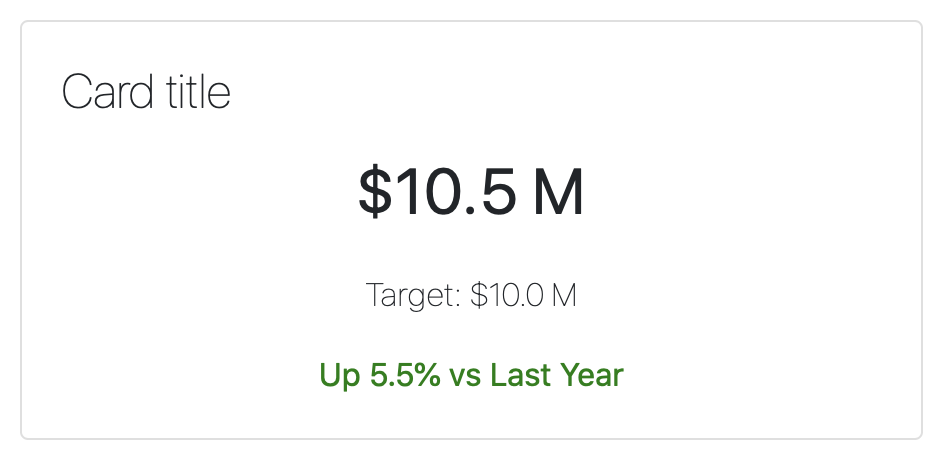
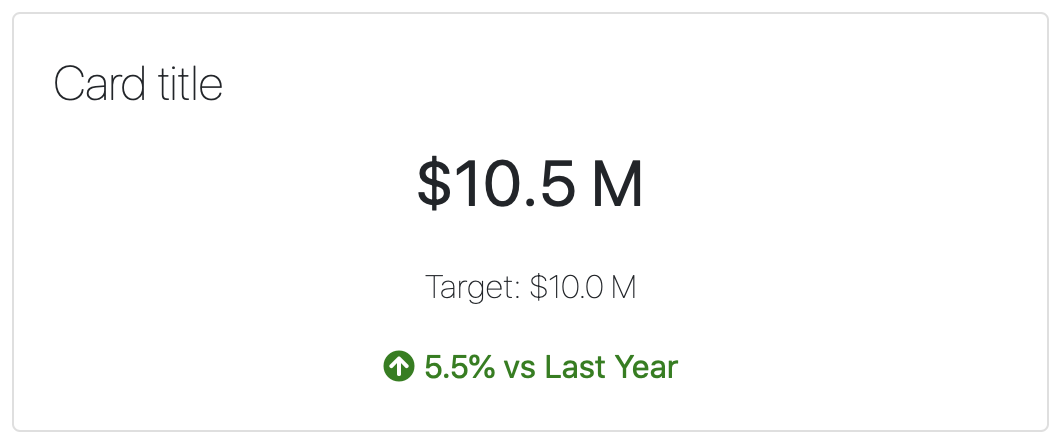
updated dash kpi cards

diff --git a/_posts/2020-07-02-Dash-Bootstrap-KPI-Card.md b/_posts/2020-07-02-Dash-Bootstrap-KPI-Card.md
@@ -5,6 +5,7 @@ classes: wide
 tags: [cheatsheets, python]
 excerpt: "Code snippet to create a starter KPI card with Dash Bootstrap Components"
 ---
+*Updated 2021-07-01 to use Dash 1.19 and fontawesome icons*
 
 [Dash Bootstrap Components](https://dash-bootstrap-components.opensource.faculty.ai) has a fantastic library of plug and play [components](https://dash-bootstrap-components.opensource.faculty.ai/docs/components/card/) that make it easy to get started.
 
@@ -20,21 +21,21 @@ Here's the sketch of the starter KPI dashboard:
 
 Python Code for your `app.py` file:
 ```python
-import dash  # (version 1.12.0) pip install dash
+import dash  # (version 1.19.0) pip install dash
 
 import dash_bootstrap_components as dbc
 import dash_html_components as html
 
-app = dash.Dash(external_stylesheets=[dbc.themes.BOOTSTRAP])
+fontawesome_stylesheet = "https://use.fontawesome.com/releases/v5.8.1/css/all.css"
+
+app = dash.Dash(external_stylesheets=[dbc.themes.BOOTSTRAP, fontawesome_stylesheet])
 
 header = html.Div([
     dbc.Row(dbc.Col(html.H1("H1 Text"))),
 ])
 
-card = dbc.Card(
-    [
-        dbc.CardBody(
-            [
+card = dbc.Card([
+        dbc.CardBody([
                 html.H4("Card title", className="card-title"),
                 html.P(
                     "$10.5 M",
@@ -44,29 +45,20 @@ card = dbc.Card(
                     "Target: $10.0 M",
                     className="card-target",
                 ),
-                html.Span(
-                    "Up ",
-                    className="card-diff-up",
-                ),
-                html.Span(
-                    "5.5% vs Last Year",
-                    className="card-diff-up",
-                ),
+                html.Span([
+                    html.I(className="fas fa-arrow-circle-up up"),
+                    html.Span(" 5.5% vs Last Year",
+                    className="up")
+                ])
+            ])
+        ])
 
-            ]
-        ),
-    ],
-)
-
-row = html.Div(
-    [
-        dbc.CardDeck(
-            [
+row = html.Div([
+        dbc.CardDeck([
                 card,
                 card,
                 card,
-            ]
-        ),
+            ]),
     ], style={'padding': '25px'}
 )
 
@@ -77,11 +69,11 @@ app.layout = html.Div([
 ])
 
 if __name__ == "__main__":
-    app.run_server(port=8888, debug=True)
+    app.run_server(host="0.0.0.0", port=8080, debug=True)
 ```
-Instead of `dbc.CardDeck` you can also make a `dbc.Row()` and each card would be a `dbc.Col()` within that row.
+The 'up' arrow icon is courtesy of fontawesome, which we load with the external stylesheet. Since this is all in python it's simple to turn this into a function and create conditional (i.e. `if`) statements to change the icon and color scheme for your data.
 
-And some basic CSS styling:
+Here is the basic CSS styling that goes with this:
 ```css
 .card {
     text-align: center;
@@ -100,11 +92,11 @@ And some basic CSS styling:
     font-weight: lighter;
 }
 
-.card .card-diff-down {
+.card .down {
     color: red
 }
 
-.card .card-diff-up {
+.card .up {
     color: green
 }
 ```

diff --git a/_posts/2019-12-28-screen-graphics-and-dashboard-design.md b/_posts/2019-12-28-screen-graphics-and-dashboard-design.md
@@ -1,7 +1,7 @@
 ---
 title: "What I'm Pondering: Screen Graphics and Why My Dashboards Suck"
 date: 2019-12-28
-tags: [dataviz, UX]
+tags: [meta]
 classes: wide
 excerpt: "Today I learned that there are design studios who specialize in 'Screen Graphics' - the cool visual effects that shows up on computer screens in movies like The Martian and Blade Runner 2049. And then I wonder why our corporate finance dashboards seem to miss the mark."
 ---

diff --git a/_posts/2021-04-16-plotly-in-markdown.md b/_posts/2021-04-16-plotly-in-markdown.md
@@ -1,7 +1,7 @@
 ---
 title: "Adding Plotly Charts to Markdown"
 date: 2021-04-16
-tags: [python, plotly]
+tags: [python]
 classes: wide
 excerpt: "Quick reference that shows options to add plotly charts to a markdown document"
 ---
